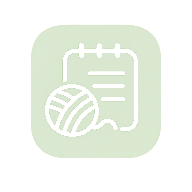
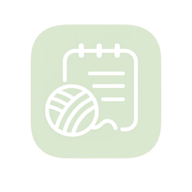
.

diff --git a/BlazorApp1/wwwroot/js/app.js b/BlazorApp1/wwwroot/js/app.js
@@ -63,15 +63,18 @@ window.cleanupCardDrag = () => {
 // ── 날짜 input placeholder (iOS Safari 대응) ──────────────────
 // 빈 date input에 "연도-월-일" 텍스트 표시
 function updateDatePlaceholders() {
+    // iOS Safari에서만 적용 (PC 브라우저는 자체 placeholder 표시)
+    const isIOS = /iPhone|iPad|iPod/.test(navigator.userAgent) ||
+                  (navigator.platform === 'MacIntel' && navigator.maxTouchPoints > 1);
+    if (!isIOS) return;
+
     document.querySelectorAll('input[type="date"]').forEach(inp => {
         if (!inp.value) {
             inp.classList.add('date-empty');
             if (!inp.parentElement.classList.contains('date-input-wrap')) {
-                // 감싸기 전 높이 기록
                 const h = inp.offsetHeight;
                 const wrap = document.createElement('div');
                 wrap.className = 'date-input-wrap';
-                // 래퍼 높이를 input 높이로 명시 고정
                 if (h > 0) wrap.style.height = h + 'px';
                 inp.parentNode.insertBefore(wrap, inp);
                 wrap.appendChild(inp);
@@ -105,10 +108,10 @@ document.addEventListener('change', e => {
 // ── 모바일 디버그 콘솔 ──────────────────────────────────────
 // URL에 ?debug=1 붙이면 화면에 로그 패널 표시
 (function() {
-    if (!location.search.includes('debug=1')) return;
+    // URL ?debug=1 또는 localStorage knitlog_debug=1 이면 활성화
+    const debugEnabled = location.search.includes('debug=1') || localStorage.getItem('knitlog_debug') === '1';
+    if (!debugEnabled) return;
     // 도안 뷰어 페이지에서만 표시
-    // (다른 페이지 URL에 ?debug=1 붙여도 패널 안 뜸 — pattern-viewer 경로만 허용)
-    // 모든 페이지에서 보고 싶으면 아래 줄 주석 처리
     if (!location.pathname.includes('pattern-viewer')) return;
 
     const panel = document.createElement('div');